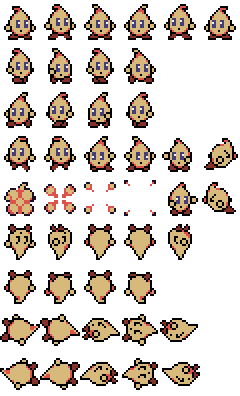
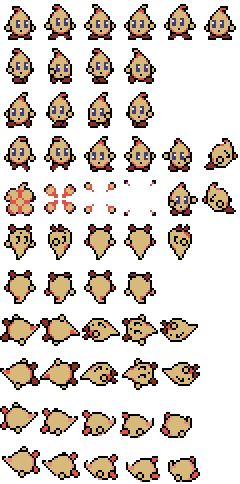
Implemented slide recovery animation after charge attack

diff --git a/src/actors/player.js b/src/actors/player.js
@@ -18,6 +18,7 @@ define("Player", ['Actor', 'Tile', 'Prop', 'Enemy', 'Point', 'ParticleSystem', '
             this.frozen = false;
             this.warpPoint = null;
 
+            this.addHurtbox(null, 4, 4, 18, 24, this.location);
             this.maxHealth = 2;
             this.currentHealth = 2;
             this.maxIFrames = 60;
@@ -28,14 +29,10 @@ define("Player", ['Actor', 'Tile', 'Prop', 'Enemy', 'Point', 'ParticleSystem', '
 
             this.interactionRange = tileSize / 2;
             this.interactionOrigin = new Point();
-
             this.initInteractionElements();
 
-            // this.addHitbox(null, 24, -8, 10, 36, this.location);
-            this.addHurtbox(null, 4, 4, 18, 24, this.location);
-
             this.aerialAttack = new SlamAttack(["aerialMain", "aerialRecovery"]);
-            this.groundAttack = new ChargeAttack(["groundWindup", "groundMain"]);
+            this.groundAttack = new ChargeAttack(["groundWindup", "groundMain", "groundMainSlide"]);
 
             this.currentAttack = null;
         }
@@ -60,6 +57,9 @@ define("Player", ['Actor', 'Tile', 'Prop', 'Enemy', 'Point', 'ParticleSystem', '
 
                     rightChargeWindup: [22, 23, "rightChargeWindup", .01], rightCharge: [42, 46, "rightCharge", .25],
                     leftChargeWindup: [28, 29, "finished", .01], leftCharge: [48, 52, "leftCharge", .25],
+
+                    rightChargeSlide: [54, 58, "rightChargeSlideFinished", .15], rightChargeSlideFinished: 58,
+                    leftChargeSlide: [60, 64, "leftChargeSlideFinished", .15], leftChargeSlideFinished: 64,
                     
                     finished: 11
                 }
@@ -168,13 +168,13 @@ define("Player", ['Actor', 'Tile', 'Prop', 'Enemy', 'Point', 'ParticleSystem', '
         }
 
         updateState() {
-            this.enactNewState();
-
+            
             if (!this.frozen)
                 this.setMotionState();
-
             if (this.currentController.setAnimation)
                 this.setControllerState();
+
+            this.enactNewState();
         }
         enactNewState() {
             // console.log(this.priorOrientation + ", " + this.orientation + "  -  " + this.priorState + ", " + this.state);
@@ -204,7 +204,9 @@ define("Player", ['Actor', 'Tile', 'Prop', 'Enemy', 'Point', 'ParticleSystem', '
         }
 
         jumpHold() {
-            if (this.currentController.currentJumps <= 0 || this.jumpHeld || this.frozen)
+            if (this.jumpHeld || this.frozen)
+                return;
+            else if (!this.currentController.acceptInput || this.currentController.currentJumps <= 0)
                 return;
             
             this.velocity.Y = -this.currentController.jumpVelocity;
@@ -222,12 +224,10 @@ define("Player", ['Actor', 'Tile', 'Prop', 'Enemy', 'Point', 'ParticleSystem', '
         }
 
         attack() {
-            if (this.frozen)
+            if (this.frozen || this.currentAttack ? this.currentAttack.active : false)
                 return;
-            console.log("BEGIN attack");
-            if (this.currentAttack)
-                this.currentAttack.active = false;
 
+            console.log("BEGIN attack");
             if (this.onGround) {
                 this.currentAttack = this.groundAttack;
             }

diff --git a/src/actors/actorController.js b/src/actors/actorController.js
@@ -3,9 +3,6 @@ define("ActorController", ['Point'], function(Point) {
     class ActorController {
         
         constructor(motionData) {
-            
-            this.staticVelocityX = motionData["staticVelocityX"];
-            this.staticVelocityY = motionData["staticVelocityY"];
 
             this.acceleration = motionData["acceleration"];
             this.deceleration = motionData["deceleration"];
@@ -16,6 +13,7 @@ define("ActorController", ['Point'], function(Point) {
             this.jumpHeight = motionData["jumpHeight"];
             this.shortJumpHeight = motionData["shortJumpHeight"];
             this.timeToJumpApex = motionData["timeToJumpApex"];
+            this.gCoefficient = motionData["gCoefficient"] ? motionData["gCoefficient"] : 60;
             
             this.maxJumps = motionData["maxJumps"];
             this.currentJumps = this.maxJumps;
@@ -24,13 +22,26 @@ define("ActorController", ['Point'], function(Point) {
             this.shortJumpVelocity = Math.sqrt(2 * this.gravity * this.shortJumpHeight);
             this.jumpVelocity = this.gravity * this.timeToJumpApex;
             this.glideVelocity = Math.sqrt(2 * this.gravity * this.glideHeight);
-            this.maxGravity = this.gravity * 60;
+            this.maxGravity = this.gravity * this.gCoefficient;
+            
+            this.staticVelocityX = motionData["staticVelocityX"];
+            this.staticVelocityY = motionData["staticVelocityY"];
+            
+            var forceX = motionData["forceX"] ? motionData["forceX"] : 0;
+            var forceY = motionData["forceY"] ? motionData["forceY"] : 0;
+            this.force = new Point(forceX, forceY);
 
+            this.acceptInput = motionData["acceptInput"] != null ? motionData["acceptInput"] : true;
             this.setAnimation = motionData["setAnimation"];
         }
 
         reset() {
             this.currentJumps = this.maxJumps;
+        }
+
+        init(actor) {
+
+            actor.velocity.add(this.force);
         }
 
         updateSpeed(actor) {

diff --git a/src/actors/actor.js b/src/actors/actor.js
@@ -21,7 +21,7 @@ function(       GameObject, Point, CollisionBox, ActorController) {
 
             this.controlsLocked = false;
             this.defaultController = new ActorController(controllerData["default"]);
-            this.currentController = this.defaultController;
+            this.setController(this.defaultController);
 
             this.displayCollision = false;
             this.particleEffects = [];
@@ -41,11 +41,11 @@ function(       GameObject, Point, CollisionBox, ActorController) {
             if (this.controlsLocked)
                 return;
 
-            if (this.goingLeft) {
+            if (this.goingLeft && this.currentController.acceptInput) {
                 this.targetVelocity.X = -this.currentController.maxRunSpeed;
                 this.orientation = "left";
             }
-            else if (this.goingRight) {
+            else if (this.goingRight && this.currentController.acceptInput) {
                 this.targetVelocity.X = this.currentController.maxRunSpeed;
                 this.orientation = "right";
             }
@@ -145,6 +145,11 @@ function(       GameObject, Point, CollisionBox, ActorController) {
             return maxDistance;
         }
         
+        setController(newController) {
+            this.currentController = newController;
+            this.currentController.init(this);
+        }
+
         setGrounded() {
             this.velocity.Y = this.currentController.gravity;
             

diff --git a/src/action/attack.js b/src/action/attack.js
@@ -72,7 +72,7 @@ define("Attack", ['CollisionBox', 'ActorController'], function(CollisionBox, Act
 
             var origin = this.currentIndex;
             this.setNextPhase();
-            console.log("Progress attack from " + origin + " to " + this.currentIndex);
+            
             if (this.currentIndex <= origin)
                 this.endAttack(hostActor);
             else
@@ -117,7 +117,7 @@ define("Attack", ['CollisionBox', 'ActorController'], function(CollisionBox, Act
 
             if (this.controller) {
                 console.log(this.controller);
-                hostActor.currentController = this.controller;
+                hostActor.setController(this.controller);
             }
             if (this.animation) {
                 this.addPhaseAnimation(hostActor);
@@ -151,7 +151,7 @@ define("Attack", ['CollisionBox', 'ActorController'], function(CollisionBox, Act
                 hostActor.state = "";
             }
             if (this.controller) {
-                hostActor.currentController = hostActor.defaultController;
+                hostActor.setController(hostActor.defaultController);
             }
             if (this.hitboxes) {
                 this.hitboxes.forEach((hitbox) => {

diff --git a/src/action/chargeAttack.js b/src/action/chargeAttack.js
@@ -31,6 +31,11 @@ define("ChargeAttack", ['Attack', 'CollisionBox', 'ActorController'], function(A
                     return false;
             }
 
+            if (this.currentIndex == 2 && !hostActor.onGround) {
+                this.currentPhase.phaseTimer = this.currentPhase.duration;
+                return true;
+            }
+
             this.currentPhase.updatePhase();
 
             return true;
